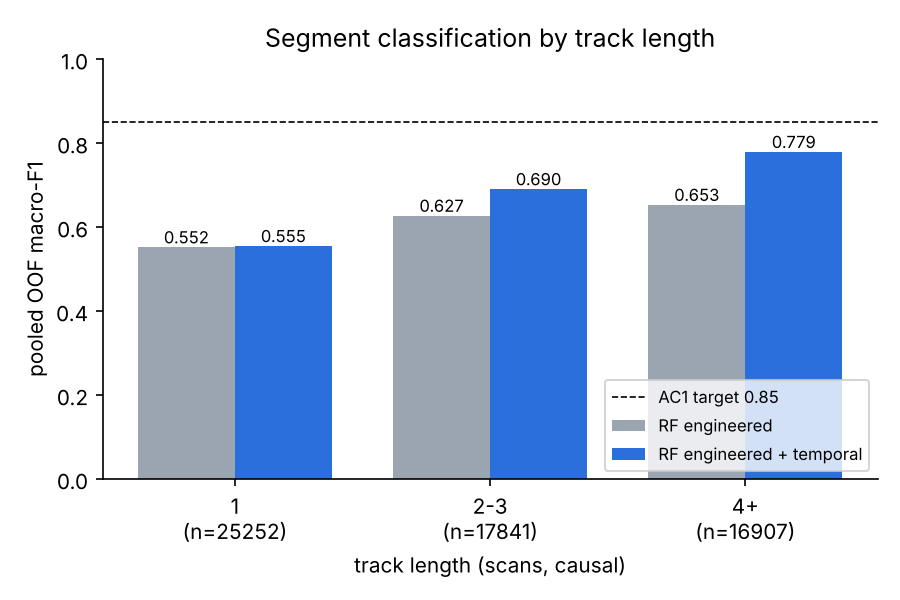
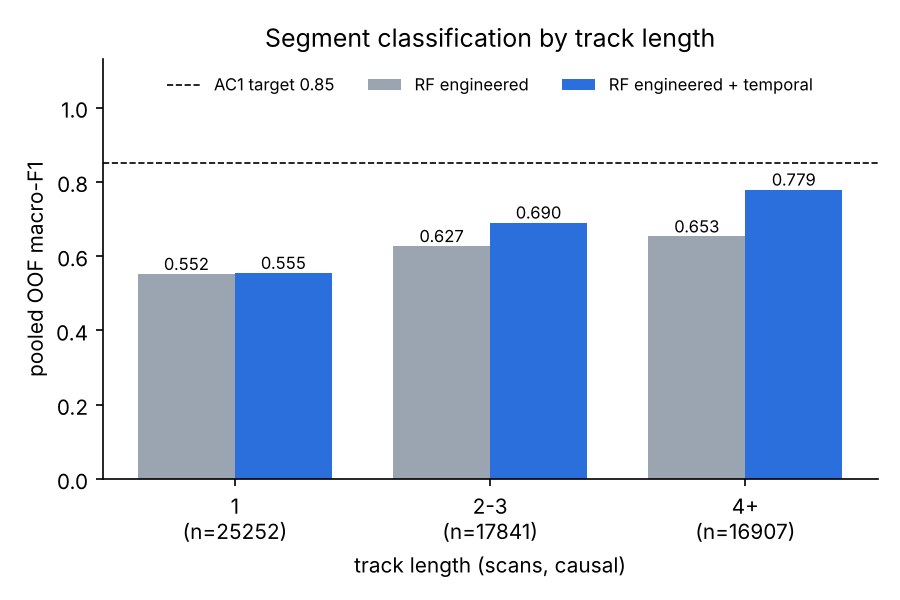
Tracking robustness to odometry noise (T2d, F11); fix F10 legend
Gain over engineered-only RF: +0.078 (none/low), +0.068 (medium), +0.047 (high noise), CIs > 0.

Claude-Session: https://claude.ai/code/session_019YqGsms71jwMP6ZuEEYU4i

diff --git a/tasks/temporal_odometry.py b/tasks/temporal_odometry.py
@@ -1,0 +1,157 @@
+"""Task 2d: robustness of the T2c temporal-tracking gain to odometry (dead-reckoning) noise.
+
+T2c links segments across scans with EXACT simulator poses. Here each episode's pose is replaced by a
+dead-reckoning estimate: the first scan is anchored at the true pose, then every scan-to-scan increment
+(10 steps) is the true increment in the previous robot frame plus N(0, sigma_t) in x and y and N(0, sigma_h)
+in heading, composed onto the previous ESTIMATED pose, so the error is a random walk that accumulates
+within the episode. Levels are pre-specified; the RNG is seeded per (episode_id, level) via crc32, so the
+noise is reproducible and independent of labels. Linking (world-frame centroids) and t_view_spread_deg
+use the estimated poses (tasks.temporal.temporal_features is called on a copy of the table whose pose_*
+columns hold the estimate); segment shape features are robot-frame and unchanged.
+
+To save time the RF uses the T2/T2c-selected hyper-parameters FIXED (min_samples_leaf=5, max_features='sqrt';
+the inner grid chose these in every outer fold of both T2 and T2c) instead of the inner grid; the
+engineered-only reference and the 'none' level use the same fixed parameters, so all rows are like-for-like.
+Same 60k subsample, same outer GroupKFold(5) by map, map-bootstrap CIs (1000 resamples)."""
+import os, time, zlib
+import numpy as np, pandas as pd
+import matplotlib
+matplotlib.use("Agg")
+import matplotlib.pyplot as plt
+from sklearn.ensemble import RandomForestClassifier
+from tasks.common import *
+from tasks.segment_classification import N_SUB
+from tasks.temporal import temporal_features, evaluate, cm_rows
+
+LEVELS = [("none", 0.0, 0.0), ("low", 0.02, 1.0), ("medium", 0.05, 3.0), ("high", 0.10, 6.0)]  # (name, sigma_t m, sigma_h deg)
+RF_JOBS = 2  # machine shared; RF results do not depend on n_jobs (fixed random_state)
+
+
+def fixed_rf():
+    return RandomForestClassifier(n_estimators=150, class_weight="balanced_subsample", random_state=SEED,
+                                  n_jobs=RF_JOBS, min_samples_leaf=5, max_features="sqrt")
+
+
+def wrap(a):
+    return (a + np.pi) % (2 * np.pi) - np.pi
+
+
+def noisy_poses(seg, level, sig_t, sig_h_deg):
+    """Dead-reckoning pose estimate per row. Uses only pose_* / episode_id / step (never labels)."""
+    sc = seg[["episode_id", "step", "pose_x", "pose_y", "pose_theta"]].drop_duplicates(["episode_id", "step"])
+    sc = sc.sort_values(["episode_id", "step"], kind="stable")
+    est = {}
+    sig_h = np.deg2rad(sig_h_deg)
+    for ep, d in sc.groupby("episode_id", sort=False):
+        x, y, th = d.pose_x.values, d.pose_y.values, d.pose_theta.values
+        n = len(d)
+        rng = np.random.default_rng(zlib.crc32(f"{ep}|{level}".encode()))
+        nt = rng.normal(0.0, 1.0, (n, 2)) * sig_t
+        nh = rng.normal(0.0, 1.0, n) * sig_h
+        ex, ey, eth = np.empty(n), np.empty(n), np.empty(n)
+        ex[0], ey[0], eth[0] = x[0], y[0], th[0]           # anchored at the first scan
+        for k in range(1, n):
+            c, s = np.cos(th[k - 1]), np.sin(th[k - 1])
+            dx, dy = x[k] - x[k - 1], y[k] - y[k - 1]
+            lx, ly = c * dx + s * dy, -s * dx + c * dy       # true increment in previous robot frame
+            lx, ly = lx + nt[k, 0], ly + nt[k, 1]
+            dth = wrap(th[k] - th[k - 1]) + nh[k]
+            ce, se = np.cos(eth[k - 1]), np.sin(eth[k - 1])
+            ex[k] = ex[k - 1] + ce * lx - se * ly
+            ey[k] = ey[k - 1] + se * lx + ce * ly
+            eth[k] = wrap(eth[k - 1] + dth)
+        for k, st in enumerate(d.step.values):
+            est[(ep, st)] = (ex[k], ey[k], eth[k])
+    keys = list(zip(seg.episode_id.values, seg.step.values))
+    P = np.array([est[k] for k in keys])
+    out = seg.copy()
+    out["pose_x"], out["pose_y"], out["pose_theta"] = P[:, 0], P[:, 1], P[:, 2]
+    if sig_t == 0 and sig_h_deg == 0:
+        assert np.allclose(P, seg[["pose_x", "pose_y", "pose_theta"]].values, atol=1e-9)
+    return out
+
+
+def plot_f11(df):
+    lv = df[df.level != "engineered-only"]
+    ref = df[df.level == "engineered-only"].iloc[0]
+    fig, ax = plt.subplots(figsize=(6, 4))
+    x = np.arange(len(lv))
+    ax.axhspan(ref.pooled_ci_low, ref.pooled_ci_high, color="#9aa5b1", alpha=0.25, lw=0)
+    ax.axhline(ref.pooled_macro_f1, c="#6b7785", lw=1.2, ls="--",
+               label=f"RF engineered only ({ref.pooled_macro_f1:.3f})")
+    ax.errorbar(x, lv.pooled_macro_f1, yerr=[lv.pooled_macro_f1 - lv.pooled_ci_low, lv.pooled_ci_high - lv.pooled_macro_f1],
+                fmt="o-", c="#2a6fdb", capsize=4, lw=1.5, label="RF engineered + temporal")
+    for xi, v in zip(x, lv.pooled_macro_f1):
+        ax.annotate(f"{v:.3f}", (xi, v), textcoords="offset points", xytext=(8, 6), fontsize=8)
+    ax.set_xticks(x, [f"{r.level}\n(σt={r.sigma_t_m:g} m, σh={r.sigma_h_deg:g}°)" for r in lv.itertuples()], fontsize=8)
+    ax.set_xlabel("odometry noise per scan interval (10 steps), random walk within episode")
+    ax.set_ylabel("pooled OOF macro-F1 (map-bootstrap 95% CI)")
+    lo = min(lv.pooled_ci_low.min(), ref.pooled_ci_low) - 0.02
+    hi = max(lv.pooled_ci_high.max(), ref.pooled_ci_high) + 0.03
+    ax.set_ylim(lo, hi)
+    ax.set_title("Temporal-tracking gain vs odometry noise (fixed-param RF)")
+    ax.legend(fontsize=8, loc="upper right", frameon=False)
+    for s in ["top", "right"]: ax.spines[s].set_visible(False)
+    fig.tight_layout(); fig.savefig(os.path.join(RES, "F11_odometry.png"), dpi=150); plt.close(fig)
+
+
+def main():
+    t0 = time.time()
+    full = pd.read_csv(os.path.join(DATA, "segments.csv"))
+    sub_idx = full.sample(n=N_SUB, random_state=SEED).index.values   # identical subsample to T2/T2c
+    seg0 = full.loc[sub_idx].reset_index(drop=True)
+    y = seg0.label.values; g = seg0.map_seed.values
+    folds = outer_folds(g)
+    fcols = [c for c in full.columns if c.startswith("f_")]
+    lab = full.label.values
+
+    def run_rf(X):
+        pred, _, _ = oof_predict(make_pipe(fixed_rf()), {}, X, y, g, "f1_macro", folds)
+        return pred
+
+    t1 = time.time()
+    p_eng = run_rf(seg0[fcols].values)
+    ms_e = per_map_stats(g, cm_rows(y, p_eng))
+    v, l, h, _ = bootstrap_maps(ms_e, macro_f1_from_cm)
+    rows = [dict(level="engineered-only", sigma_t_m=np.nan, sigma_h_deg=np.nan, link_rate=np.nan,
+                 link_label_agreement=np.nan, **evaluate("RandomForest", "engineered", p_eng, y, folds),
+                 pooled_ci_low=l, pooled_ci_high=h, gain_vs_eng=np.nan, gain_ci_low=np.nan, gain_ci_high=np.nan,
+                 seconds=time.time() - t1)]
+    print(f"[T2d] RF engineered (fixed params) pooled={v:.4f} [{l:.4f},{h:.4f}] ({time.time()-t1:.0f}s)", flush=True)
+
+    for level, st, sh in LEVELS:
+        t1 = time.time()
+        est = noisy_poses(full, level, st, sh)
+        tf, prev = temporal_features(est)
+        ok = prev >= 0
+        link_rate = ok.mean()
+        agree = (lab[ok] == lab[prev[ok]]).mean()   # diagnostic only, never a feature
+        # pose drift diagnostic: per-scan position/heading error vs truth
+        perr = np.hypot(est.pose_x.values - full.pose_x.values, est.pose_y.values - full.pose_y.values)
+        herr = np.degrees(np.abs(wrap(est.pose_theta.values - full.pose_theta.values)))
+        seg = pd.concat([seg0[fcols], tf.loc[sub_idx].reset_index(drop=True)], axis=1)
+        p = run_rf(seg.values)
+        ms = per_map_stats(g, np.hstack([cm_rows(y, p_eng), cm_rows(y, p)]))
+        v, l, h, _ = bootstrap_maps(ms, lambda u: macro_f1_from_cm(u[9:]))
+        vd, ld, hd, _ = bootstrap_maps(ms, lambda u: macro_f1_from_cm(u[9:]) - macro_f1_from_cm(u[:9]))
+        tl = tf.track_len.values
+        rows.append(dict(level=level, sigma_t_m=st, sigma_h_deg=sh, link_rate=link_rate, link_label_agreement=agree,
+                         **evaluate("RandomForest", "engineered+temporal", p, y, folds),
+                         pooled_ci_low=l, pooled_ci_high=h, gain_vs_eng=vd, gain_ci_low=ld, gain_ci_high=hd,
+                         frac_track_len_4plus=(tl >= 4).mean(), mean_view_spread_deg=np.nanmean(tf.t_view_spread_deg),
+                         median_pos_err_m=np.median(perr), p95_pos_err_m=np.percentile(perr, 95),
+                         median_head_err_deg=np.median(herr), seconds=time.time() - t1))
+        print(f"[T2d] {level:6s} link={link_rate:.3f} agree={agree:.4f} pooled={v:.4f} [{l:.4f},{h:.4f}] "
+              f"gain={vd:+.4f} [{ld:+.4f},{hd:+.4f}] ({time.time()-t1:.0f}s)", flush=True)
+
+    df = pd.DataFrame(rows)
+    df.insert(0, "note", "RF fixed params min_samples_leaf=5, max_features=sqrt (no inner grid); "
+                         "pooled CI and gain CI = map bootstrap 1000; link_label_agreement diagnostic only")
+    df.to_csv(os.path.join(RES, "T2d_odometry.csv"), index=False)
+    print(df.drop(columns=["note"]).round(4).to_string(index=False))
+    plot_f11(df)
+    print(f"[T2d] done in {time.time()-t0:.0f}s")
+
+
+if __name__ == "__main__":
+    main()

diff --git a/tasks/temporal.py b/tasks/temporal.py
@@ -109,6 +109,27 @@ def cm_rows(y, p):
     cm = np.zeros((len(y), 9)); cm[np.arange(len(y)), y * 3 + p.astype(int)] = 1; return cm
 
 
+def plot_f10(bdf=None):
+    """F10: per-track-length macro-F1 bars; redrawable from results/T2c_by_track_len.csv."""
+    if bdf is None:
+        bdf = pd.read_csv(os.path.join(RES, "T2c_by_track_len.csv"))
+    fig, ax = plt.subplots(figsize=(6, 4))
+    x = np.arange(len(bdf)); w = 0.38
+    for k, (col, lab, colr) in enumerate([("RandomForest|engineered", "RF engineered", "#9aa5b1"),
+                                          ("RandomForest|engineered+temporal", "RF engineered + temporal", "#2a6fdb")]):
+        b = ax.bar(x + (k - 0.5) * w, bdf[col], w, label=lab, color=colr)
+        ax.bar_label(b, fmt="%.3f", fontsize=8)
+    ax.axhline(0.85, ls="--", c="k", lw=0.8, label="AC1 target 0.85")
+    ax.set_xticks(x, [f"{b}\n(n={n})" for b, n in zip(bdf.bucket, bdf.n)])
+    ax.set_xlabel("track length (scans, causal)"); ax.set_ylabel("pooled OOF macro-F1")
+    # headroom above 1.0 so the legend sits above the bars and the 0.85 line, never on them
+    ax.set_ylim(0, 1.13); ax.set_yticks(np.arange(0, 1.01, 0.2))
+    ax.set_title("Segment classification by track length")
+    ax.legend(fontsize=8, loc="upper center", ncol=3, frameon=False, bbox_to_anchor=(0.5, 1.0))
+    for s in ["top", "right"]: ax.spines[s].set_visible(False)
+    fig.tight_layout(); fig.savefig(os.path.join(RES, "F10_temporal_gain.png"), dpi=150); plt.close(fig)
+
+
 def main():
     t0 = time.time()
     full = pd.read_csv(os.path.join(DATA, "segments.csv"))
@@ -178,18 +199,7 @@ def main():
     print(acc_df.round(4).to_string(index=False))
     print(bdf.round(4).to_string(index=False))
 
-    fig, ax = plt.subplots(figsize=(6, 4))
-    x = np.arange(len(bdf)); w = 0.38
-    for k, (col, lab, colr) in enumerate([("RandomForest|engineered", "RF engineered", "#9aa5b1"),
-                                          ("RandomForest|engineered+temporal", "RF engineered + temporal", "#2a6fdb")]):
-        b = ax.bar(x + (k - 0.5) * w, bdf[col], w, label=lab, color=colr)
-        ax.bar_label(b, fmt="%.3f", fontsize=8)
-    ax.axhline(0.85, ls="--", c="k", lw=0.8, label="AC1 target 0.85")
-    ax.set_xticks(x, [f"{b}\n(n={n})" for b, n in zip(bdf.bucket, bdf.n)])
-    ax.set_xlabel("track length (scans, causal)"); ax.set_ylabel("pooled OOF macro-F1"); ax.set_ylim(0, 1)
-    ax.set_title("Segment classification by track length"); ax.legend(fontsize=8, loc="lower right")
-    for s in ["top", "right"]: ax.spines[s].set_visible(False)
-    fig.tight_layout(); fig.savefig(os.path.join(RES, "F10_temporal_gain.png"), dpi=150)
+    plot_f10(bdf)
     print(f"[T2c] done in {time.time()-t0:.0f}s (tracking {t_track:.0f}s)")
 
 

diff --git a/tasks/run_all.py b/tasks/run_all.py
@@ -19,7 +19,7 @@ def main():
             timed("uci_classification", uci.main)
     except Exception:
         traceback.print_exc(); print("[run_all] uci_classification skipped")
-    for m in ["segment_classification", "temporal", "regression", "clustering"]:
+    for m in ["segment_classification", "temporal", "temporal_odometry", "regression", "clustering"]:
         mod = importlib.import_module(f"tasks.{m}")
         timed(m, mod.main)
     print(f"[run_all] total {time.time()-t0:.0f}s")
